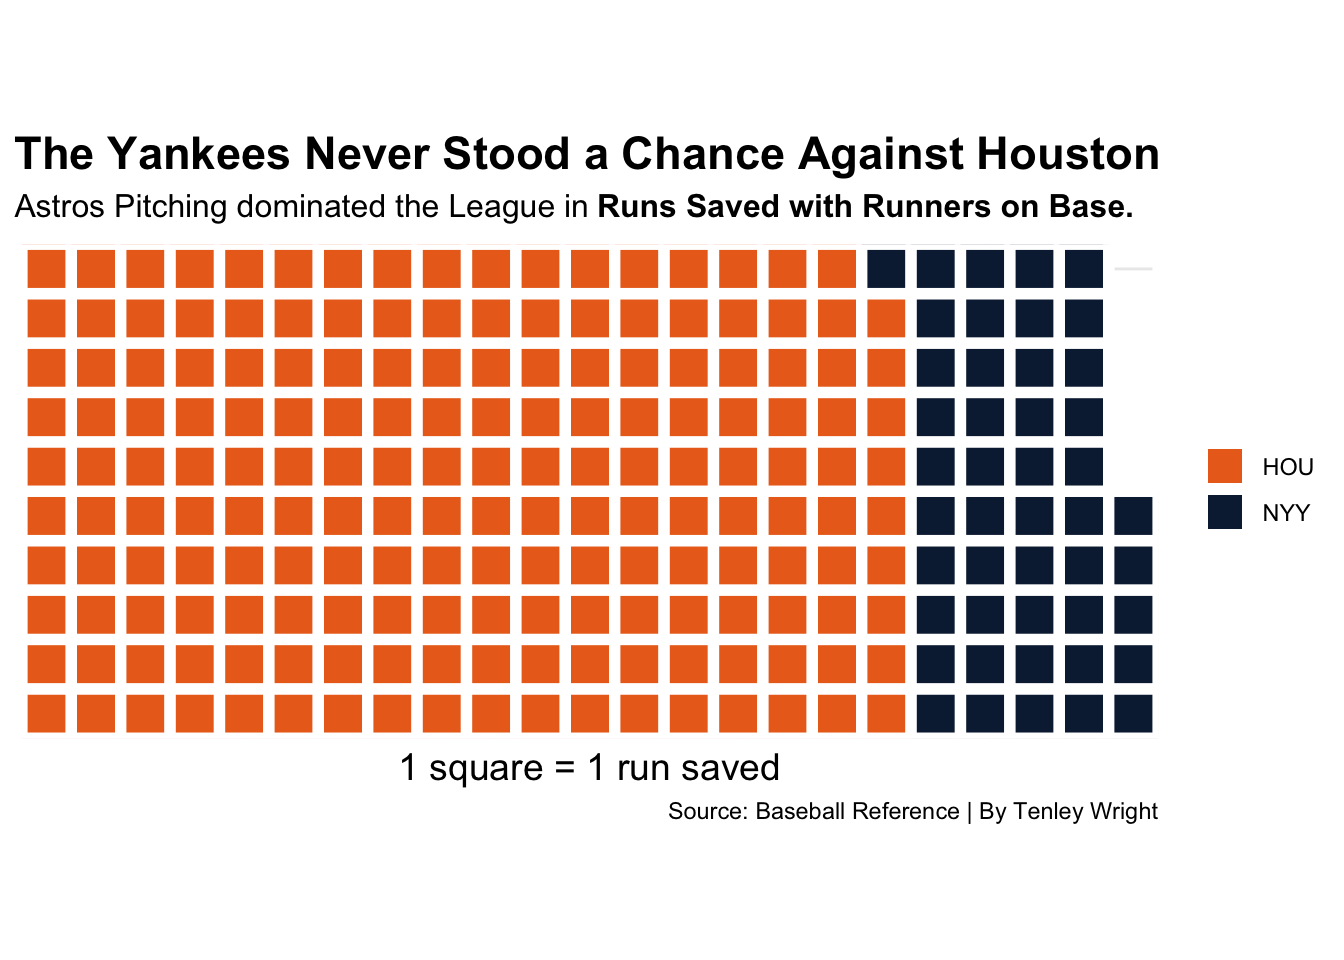
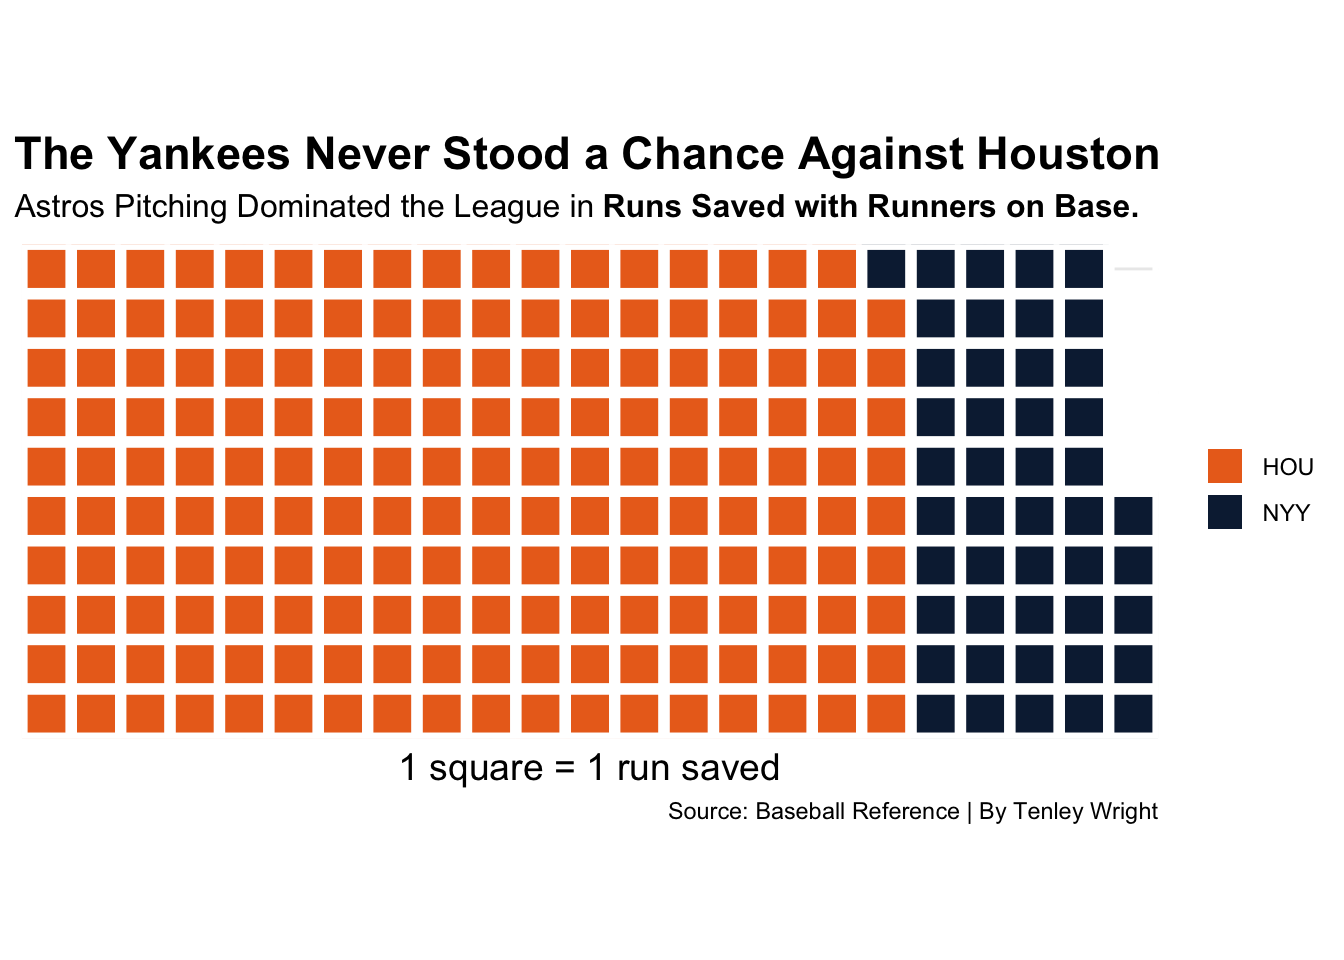
bro how did i miss so much grammar

Changed region(s): [[0.1562, 0.1875, 0.8438, 0.25]]

diff --git a/posts/could-the-2019-yankees-end-the-drought/index.html b/posts/could-the-2019-yankees-end-the-drought/index.html
@@ -403,7 +403,7 @@ code span.wa { color: #60a0b0; font-weight: bold; font-style: italic; } /* Warni
 <span id="cb4-6"><a href="#cb4-6" aria-hidden="true" tabindex="-1"></a>        )<span class="sc">+</span></span>
 <span id="cb4-7"><a href="#cb4-7" aria-hidden="true" tabindex="-1"></a><span class="fu">labs</span>(</span>
 <span id="cb4-8"><a href="#cb4-8" aria-hidden="true" tabindex="-1"></a>    <span class="at">title=</span><span class="st">"The Yankees Never Stood a Chance Against Houston"</span>, </span>
-<span id="cb4-9"><a href="#cb4-9" aria-hidden="true" tabindex="-1"></a>    <span class="at">subtitle=</span><span class="st">"Astros Pitching dominated the League in"</span> <span class="sc">~</span> <span class="fu">bold</span>(<span class="st">"Runs Saved with Runners on Base."</span>)<span class="sc">~</span><span class="st">""</span>,</span>
+<span id="cb4-9"><a href="#cb4-9" aria-hidden="true" tabindex="-1"></a>    <span class="at">subtitle=</span><span class="st">"Astros Pitching Dominated the League in"</span> <span class="sc">~</span> <span class="fu">bold</span>(<span class="st">"Runs Saved with Runners on Base."</span>)<span class="sc">~</span><span class="st">""</span>,</span>
 <span id="cb4-10"><a href="#cb4-10" aria-hidden="true" tabindex="-1"></a>    <span class="at">caption=</span><span class="st">"Source: Baseball Reference | By Tenley Wright"</span></span>
 <span id="cb4-11"><a href="#cb4-11" aria-hidden="true" tabindex="-1"></a>     )<span class="sc">+</span></span>
 <span id="cb4-12"><a href="#cb4-12" aria-hidden="true" tabindex="-1"></a>  <span class="fu">theme_minimal</span>() <span class="sc">+</span> </span>

diff --git a/index.html b/index.html
@@ -171,7 +171,7 @@ ul.task-list li input[type="checkbox"] {
 
 <div class="quarto-listing quarto-listing-container-default" id="listing-listing">
 <div class="list quarto-listing-default">
-<div class="quarto-post image-right" data-index="0" data-categories="Baseball,Code,Yankees" data-listing-date-sort="1683435600000" data-listing-file-modified-sort="1683346147934" data-listing-reading-time-sort="7.43">
+<div class="quarto-post image-right" data-index="0" data-categories="Baseball,Code,Yankees" data-listing-date-sort="1683435600000" data-listing-file-modified-sort="1683347375971" data-listing-reading-time-sort="7.43">
 <div class="thumbnail">
 <p><a href="./posts/could-the-2019-yankees-end-the-drought/index.html"> <img src="./posts/could-the-2019-yankees-end-the-drought/image.png" class="thumnail-image"> </a></p>
 </div>
